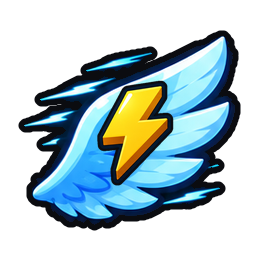
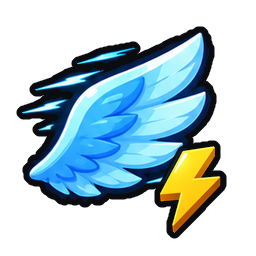
Wing Training: wing + corner bolt badge like the other speed upgrades
Claude-Session: https://claude.ai/code/session_012WEnhh9B9e9aCTmNrU2Dgh

diff --git a/birb-icons/compose_upgrades.py b/birb-icons/compose_upgrades.py
@@ -22,7 +22,7 @@ UPGRADES = {
     'mining_power': ('crow_miner', 'power'), 'ore_value': ('ore', 'up'),
     'twig_value': ('twig', 'up'), 'twig_speed': ('twig', 'speed'), 'twig_power': ('twig', 'power'),
     'echo_value': ('echo', 'up'), 'echo_cap': ('echo', 'cap'),
-    'magnet_value': ('magnet', 'up'), 'wing_speed': ('wing', 'speed@center'),
+    'magnet_value': ('magnet', 'up'), 'wing_speed': ('wing', 'speed'),
     'heart_value': ('stat_heart', 'up'), 'heart_regen': ('stat_heart', 'regen'), 'sword_power': ('stat_sword', 'power'),
 }
 

diff --git a/HANDOUT.md b/HANDOUT.md
@@ -41,7 +41,7 @@ Eggs are now the main currency. **Only what players see changed; internal ids st
 - Code: display text in `Defs`, `Shop`, `Spec`, `Windows`, `Hud`; the field pickup `Models.kernel` is now a speckled egg (gold version for golden). The field model is named `Eggs`.
 - Figma UI v2: 82 text layers renamed; the popcorn and golden icon fills in all windows, the HUD icon `108:7` and `icon/popcorn`/`icon/golden` swapped to `egg`/`egg_golden`. Egg Robux shop icons are in `145:7` (the popcorn strip `128:7` is kept for reference).
 - **To do:** upload `birb-icons/final/egg.png`, `egg_golden.png` and the new `shop_*.png` to Roblox and replace the `popcorn`, `golden` and `shop_*` ids in `Icons.luau`; re-export the Figma window art (`FigmaArt.luau`), since the baked window renders still say POPCORN. The `birb-data/*.json` descriptions still say popcorn (Birb source data, not shown in game).
-- **Upgrade icons (2026-10-08):** stat-upgrade rows = the current icon + a painted 3D badge on the lower right (green up arrow = value, blue plus = cap, yellow bolt = speed, orange × = multiplier, red burst = power, teal circular arrow = regen). Badges are `birb-icons/final/badge_*.png` (Figma AI sheet `sheets/badges_sheet.png`); in Figma each `icon/<name>` frame next to the Icon assets strip is a `base` image + a `badge/<type>` image (62px at 68,66), merged by `birb-icons/compose_upgrades.py` (base scaled 0.9 to the top-left, badge 118px bottom-right, then `clean_ring` so icon and badge share one crisp ink outline like the wallet icons) into `final/up_<name>.png`, placed on every matching `ico/<name>` slot (square-top atlas `117:7` and UI v2). Bases come from the up-to-date set (egg/mining sheet + shop icons: carton for Egg Cap, single 3-egg crate (`shop_crateS`) for Auric Silo, basket for More Eggs, hatch for Quick Pop, gold touch for Gilded Margins, plain `magnet` + up arrow for Long Neck (owner: the magnet with eggs reads badly), miner crow for Mining Power, charged pickaxe for Charged Strike, `wing` with the bolt centred on it for Wing Training). Parrot Health/Damage/Regen are composed the same way on `stat_heart`/`stat_sword` (painted in `sheets/badges_sheet_2.png`, which also replaced the bolt and loop badges; the burst stays the first painted one, owner's pick). `badge_regen` keeps its centre hole open (OPEN_HOLES in cut_grid/clean_ring). Owner rejected hand-drawn vector badges and old approved-sheet icons. Still to upload to Roblox and map in `Icons.luau`/`Spec.luau`.
+- **Upgrade icons (2026-10-08):** stat-upgrade rows = the current icon + a painted 3D badge on the lower right (green up arrow = value, blue plus = cap, yellow bolt = speed, orange × = multiplier, red burst = power, teal circular arrow = regen). Badges are `birb-icons/final/badge_*.png` (Figma AI sheet `sheets/badges_sheet.png`); in Figma each `icon/<name>` frame next to the Icon assets strip is a `base` image + a `badge/<type>` image (62px at 68,66), merged by `birb-icons/compose_upgrades.py` (base scaled 0.9 to the top-left, badge 118px bottom-right, then `clean_ring` so icon and badge share one crisp ink outline like the wallet icons) into `final/up_<name>.png`, placed on every matching `ico/<name>` slot (square-top atlas `117:7` and UI v2). Bases come from the up-to-date set (egg/mining sheet + shop icons: carton for Egg Cap, single 3-egg crate (`shop_crateS`) for Auric Silo, basket for More Eggs, hatch for Quick Pop, gold touch for Gilded Margins, plain `magnet` + up arrow for Long Neck (owner: the magnet with eggs reads badly), miner crow for Mining Power, charged pickaxe for Charged Strike, `wing` + bolt badge in the corner for Wing Training (owner: a bolt on the wing itself looks bad)). Parrot Health/Damage/Regen are composed the same way on `stat_heart`/`stat_sword` (painted in `sheets/badges_sheet_2.png`, which also replaced the bolt and loop badges; the burst stays the first painted one, owner's pick). `badge_regen` keeps its centre hole open (OPEN_HOLES in cut_grid/clean_ring). Owner rejected hand-drawn vector badges and old approved-sheet icons. Still to upload to Roblox and map in `Icons.luau`/`Spec.luau`.
 - New icons from the egg/mining sheet (cut from a low-res preview, recut from the original when available): `egg`, `egg_golden`, `egg_shiny`, `shop_*` (eggs), `ore_*` tiers, `golem`, `pickaxe_charged`, `rupture`, `mine_chest`, `crow_miner`, `anvil`, `minecart`, `tombstone`.
 
 ### Open issues (do these next)
